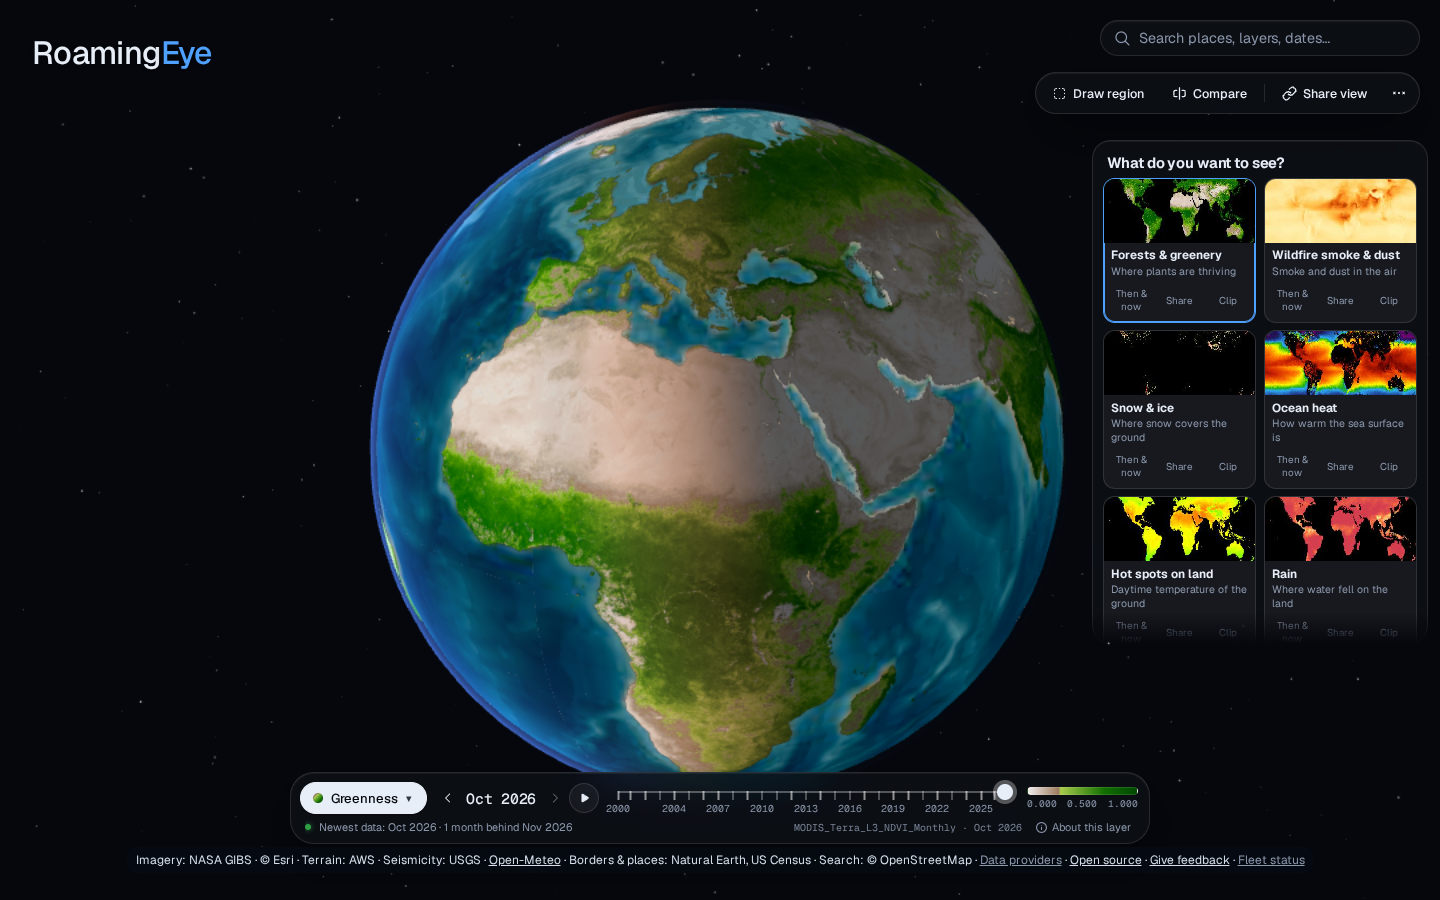
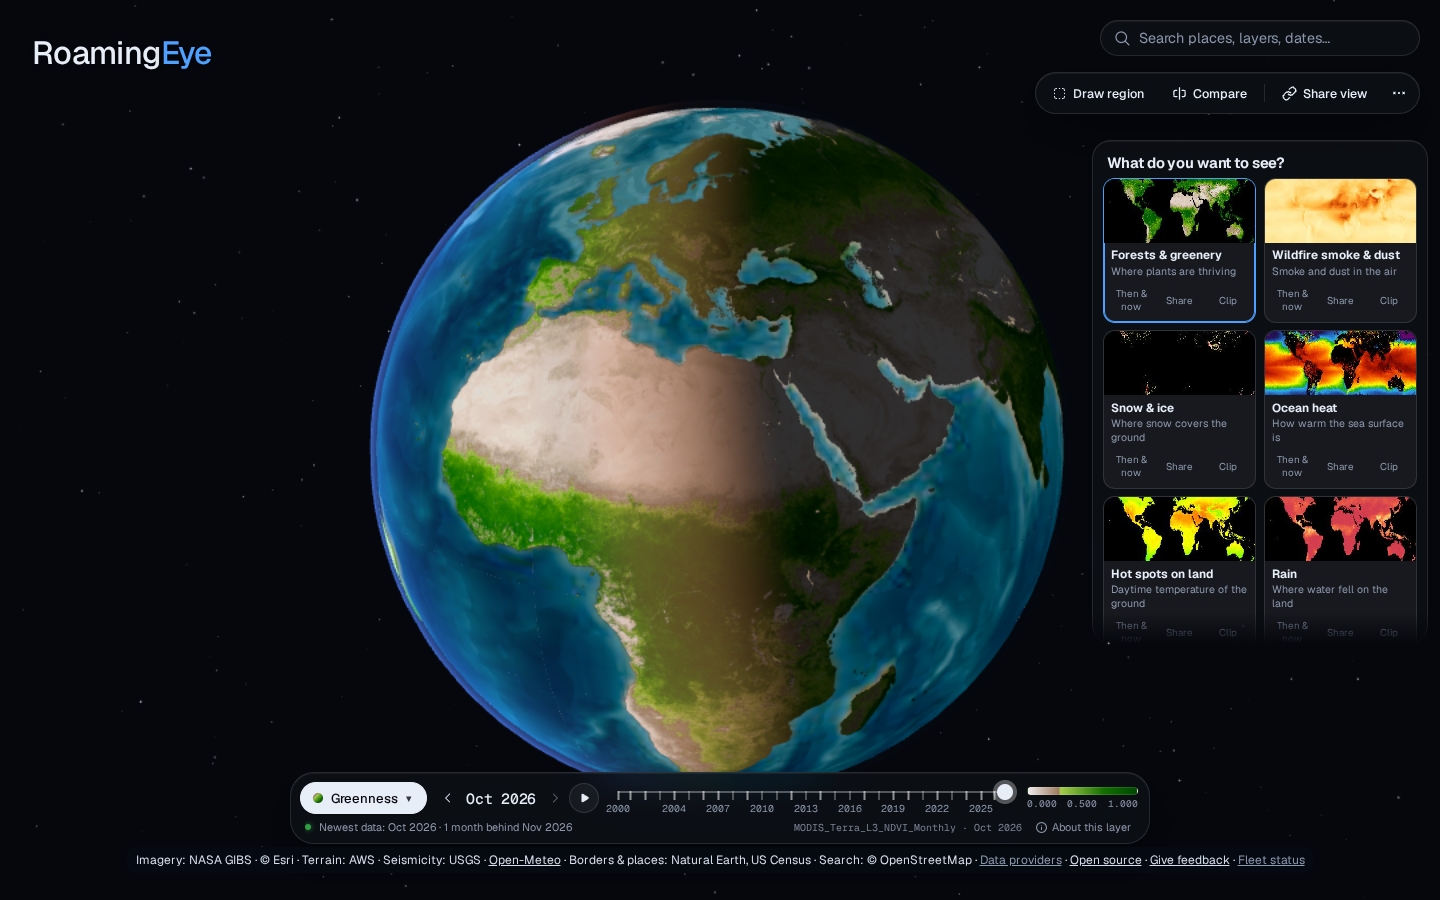
Reshoot the night side with the darker floor and city lights.
The frames look at 20 N, 25 E at 15 Nov 2026 16:30 UTC, so the evening
terminator crosses Africa and the night side is in the picture.

Changed region(s): [[0.4375, 0.1244, 0.75, 0.8089]]

diff --git a/docs/real-earth-preview/README.md b/docs/real-earth-preview/README.md
@@ -27,14 +27,14 @@ first visit in the light theme looked like a pale card. These later frames are
 the default visit: Greenness, 15 Oct 2026, camera over the Americas, clock
 frozen at 15 Nov 2026 16:30 UTC.
 
-Day and night are on for data layers by default. The night floor is 0.16 in
-linear light, which encodes to about 40% of the day side in sRGB, with a
-slight cool tint. Twilight is scaled by the albedo so a dark green is not
-bleached tan. The probe still reads the unshaded colormap. The limb is a
-shell 1.2% larger than the globe, drawn with the view-ray fresnel so it hugs
-the edge. NASA Black Marble (VIIRS, 2016) is the sphere's emissive map and
-shows only on the night side, after the sun chunk loads. The credits sit on
-a dark plate with light text in both themes, because the canvas is space.
+Day and night are on for data layers by default. The night floor is 0.045 in
+linear light, about 17% of the day side once sRGB encodes it, and it is a
+multiply with a cool tint so the hue stays. Twilight is a warm band across
+the terminator. The probe still reads the unshaded colormap. The limb is a
+shell 1.2% larger than the globe. NASA Black Marble (VIIRS, 2016) is added
+only on the bright city pixels of the night side. The credits sit on a dark
+plate in both themes. These frames look at 20 N, 25 E, 15 Nov 2026 16:30 UTC,
+so the evening terminator crosses Africa and the night side is in frame.
 
 Desktop is 1440x900. Phone is 390x844. `terminator.gif` steps the same view
 through 24 hours, two hours a frame, on 15 Oct 2026.
